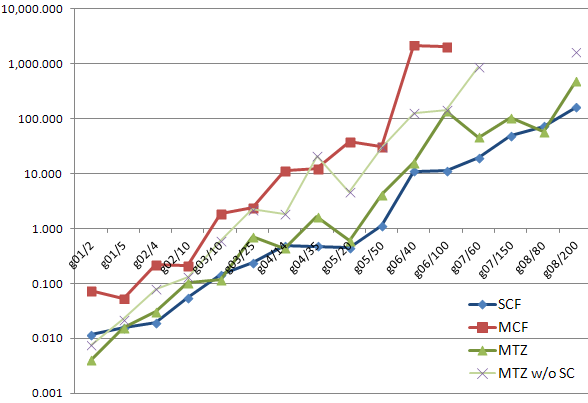
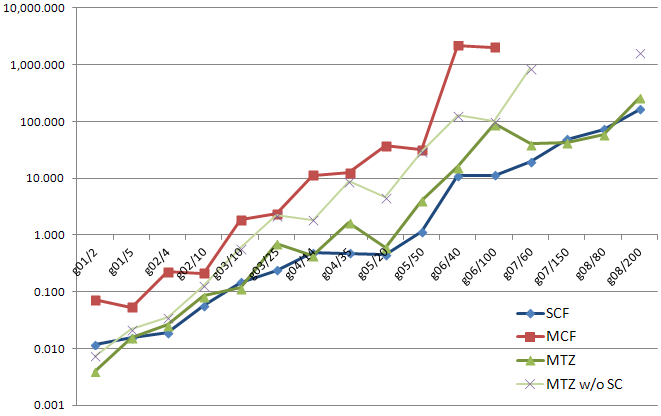
New results for mzt, rewritten conclusion

Changed region(s): [[0.0, 0.0, 1.0, 1.0]]

diff --git a/report/report.tex b/report/report.tex
@@ -244,7 +244,7 @@ This constraint forces all u values for unused nodes (which have no incoming nod
 
 \subsubsection{Strengthening Constraints}
 
-For all non artificial nodes, we know that the u value has to be at least 1.
+For all non artificial nodes, we know that the u value has to be at least 1. (Not possible in combination with \eqref{eq:mztMaxU})
 \begin{equation}\label{eq:mztNodes1}
  \ilc{u[\vertex]} \geq 1
  \quad \forall \vertex \in V  \setminus \{0\}
@@ -261,7 +261,7 @@ For small values of  $u_{max}$, this constraint tightens the selection of the \i
 	\sum_{\vertex \in V}{\ilc{u[\vertex]}} \leq \frac{k * (k+1)}{2}
 \end{equation}
 
-The value of $u_{max}$ was also subject to a strengthening or relaxing. The original proposal has $u_{max}$ set to the number of nodes, which makes sense for a TSP that is a path. So we tried n. But in our case, we only have k nodes, so k is a more natural and tighter canditate. But we also tried larger number like $n*k$. Our idea was, that the actual u value does not matter, but only the ordering is important (a node "closer" to the root has to have a lower \ilc{u} value). So a larger $u_{max}$ value gives the solver more freedom to find a suitable choice.
+The value of $u_{max}$ was also subject to a strengthening or relaxing. The original proposal has $u_{max}$ set to the number of nodes, which makes sense for a TSP that is a path. So we tried n. But in our case, we only have k nodes, so k is a more natural and tighter candidate. But we also tried larger number like $n*k$. Our idea was, that the actual u value does not matter, but only the ordering is important (a node "closer" to the root has to have a lower \ilc{u} value). So a larger $u_{max}$ value gives the solver more freedom to find a suitable choice.
 
 \section{Results}
 We executed all the tests on the provided ADS Server on a single core, without status output and in the production compile mode. All but the very large instances have been run several times to equalize random deviations of execution times. The last two columns are the results of the formulation without the strengthening constraints.
@@ -336,27 +336,30 @@ instance &   & function   & nodes          & time (sec)& (w/o SC)  & time w/o SC
 \hline
 g01.dat	&	2	&	46	&	0	&	0.004	&	0	&	0.008	\\
 g01.dat	&	5	&	477	&	20	&	0.016	&	15	&	0.022	\\
-g02.dat	&	4	&	373	&	138	&	0.031	&	83	&	0.081	\\
-g02.dat	&	10	&	1390	&	351	&	0.102	&	665	&	0.131	\\
+g02.dat	&	4	&	373	&	43$^{(**)}$	&	0.026$^{(**)}$	&	91$^{(*)}$	&	0.036$^{(*)}$	\\
+g02.dat	&	10	&	1390	&	217	$^{(**)}$&	0.085	$^{(**)}$&	665	&	0.131	\\
 g03.dat	&	10	&	725	&	9	&	0.116	&	601	&	0.589	\\
 g03.dat	&	25	&	3074	&	1062	&	0.699	&	1494	&	2.221	\\
 g04.dat	&	14	&	909	&	86	&	0.440	&	510	&	1.862	\\
-g04.dat	&	35	&	3292	&	595	&	1.656	&	11213	&	20.784	\\
+g04.dat	&	35	&	3292	&	595	&	1.656	&	10537$^{(*)}$	&	8.928$^{(*)}$	\\
 g05.dat	&	20	&	1235	&	132	&	0.596	&	2362	&	4.668	\\
 g05.dat	&	50	&	4898	&	3016	&	4.068	&	12769	&	30.080	\\
 g06.dat	&	40	&	2068	&	8023	&	15.780	&	12555	&	129.180	\\
-g06.dat	&	100	&	6705	&	50947	&	136.290	&	37379	&	144.910	\\
-g07.dat	&	60	&	1335	&	569	&	46.270	&	68448$^{(*)}$	&	863.860$^{(*)}$	\\
-g07.dat	&	150	&	4534	&	2283	&	104.220	&	-	&	-	\\
+g06.dat	&	100	&	6705	&	28492	$^{(**)}$&	90.020$^{(**)}$	&	23966$^{(**)}$	&	100.190$^{(**)}$	\\
+g07.dat	&	60	&	1335	&	5098$^{(*)}$	&	40.000$^{(*)}$	&	68448$^{(*)}$	&	863.860	$^{(*)}$\\
+g07.dat	&	150	&	4534	&	2210$^{(**)}$	&	42.680$^{(**)}$	&	-	&	-	\\
 g08.dat	&	80	&	1620	&	1050	&	58.270	&	-	&	-	\\
-g08.dat	&	200	&	5787	&	40712	&	477.720	&	94744$^{(*)}$	&	1,620.380$^{(*)}$	\\
+g08.dat	&	200	&	5787	&	26345$^{(**)}$	&	260.360$^{(**)}$	&	94744$^{(*)}$	&	1,620.380$^{(*)}$	\\
 \hline
 \end{tabular}
 
 $^{(*)}$ = Result for $u_{max} = n*k$ instead of the usual $k$.
+
+
+$^{(**)}$ = Result for $u_{max} = n$ instead of the usual $k$.
 \end{minipage}
 
-\begin{figure}[htpb]
+\begin{figure}[htb]
 	\centering	\includegraphics[width=1.00\textwidth]{chart.png}
 	\caption{Comparison of runtimes between the models}
 	\label{fig:chart}
@@ -364,20 +367,21 @@ $^{(*)}$ = Result for $u_{max} = n*k$ instead of the usual $k$.
 
 
 \section{Interpretation of results}
-Chart \ref{fig:chart} shows big differences in the performances of the different formulations. The SCF model performed far better than all other models in most instance sizes and was always able to compute a result in a reasonable time span. The MTZ usually yielded better results than the MCF formulation, but for some of the large instances, it was not possible to obtain an optimal solution.
+Chart \ref{fig:chart} shows big differences in the performances of the different formulations. These difference are present for all instance sizes and grow with increasing complexity. The SCF model has the best runtime, closely followed and sometimes beaten by the improved MTZ model. So these two formulation seem suitable to handle this kind of problem. The unimproved MTZ model however, and the MCF model did not perform well and their runtime grew too fast for the larger instances.
 
-The MCF formulation wasn't even computable for instances 7 and 8 due to the quadratic number of constraints.
-This however is not just a deficiency but is caused by the tightness of the formulation.
-The low number of branch-and-bound nodes compared to the other formulations shows that optimal solutions can often be obtained with very little branching, at the expense of long runtimes for solving the relaxation.
 
-We were surprised that small changes on the model led to very different running time. Usually the impact was worse for some and better for other instances.
-This effect is particularly visible for the sequential formulation. Here, there are instances where the strengthening constraints speed up the calculation by a factor up to 2 (cf. g05.dat with k=20 or g05.dat with k=50), for other instances however they are detrimental by about the same factor (cf. g04.dat, k=14 or g06.dat, k=100). It was very sensitive to the value of $u_{max}$, which can be anything above k-1, and had very different results for different choices, but no value was dominant for all (or even most) instances.
-From this we conclude that the proper formulation for a problem strongly depends on the input data and has to be developed for each situation individually (or configured dynamically).
+The MCF formulation wasn't even computable for instances 7 and 8 due to the quadratic number of constraints. This however is not just a deficiency but is caused by the tightness of the formulation. The low number of branch-and-bound nodes compared to the other formulations shows that optimal solutions can often be obtained with very little branching, at the expense of long runtimes for solving the relaxation.
 
-The one strengthening constraint that did affect the runtime on most instances for MZT was \eqref{eq:StrAll}, prohibiting outgoing edges for nodes without incoming egdes. It had no effect on SCF and MCF, we think that this is already implied by the flow formulations.
 
-In addition, even for the same model and instance, the runtime fluctuated unusually strong.
-We compensated this effect by executing several rounds of tests.
+The biggest impact on the performance was the introduction of \eqref{eq:StrAll}. It was initially thought as a solely strengthening constraint for all three models, but in the case of MTZ, where \eqref{eq:mztUnused} insures the same property (no outgoing edges without incoming edges), replacing the constraint resulted in a large performance boost. It had no such effect on SCF and MCF, we think that this is already implied equally closde by the flow formulations.
 
+
+The other strengthening constraint usually did not yield in significant performance changes, which seems reasonable since they only tighten the model for a few constraints. 
+
+
+We were surprised that small changes on the model led to very different running time. Usually the impact was worse for some and better for other instances. This effect is particularly visible for the sequential formulation. It was very sensitive to the value of $u_{max}$, which can be anything above k, and had very different results for different choices, but no value was dominant for all (or even most) instances. You can see this in the table for MZT, where we took the best results from different $u_{max}$ values. It may be that this problem is caused by the choice of branching - where a small change could lead to a different branching in the beginning and thus a very different branch tree. Still, there seems to be a correlation between the input size and the best choice of $u_{max}$. From this we conclude that the proper formulation for a problem strongly depends on the input data and may be developed for each situation individually (or configured dynamically).
+
+
+In addition, even for the same model and instance, the runtime fluctuated unusually strong, even for the large instances. We compensated this effect by executing several rounds of tests.
 
 \end{document}
